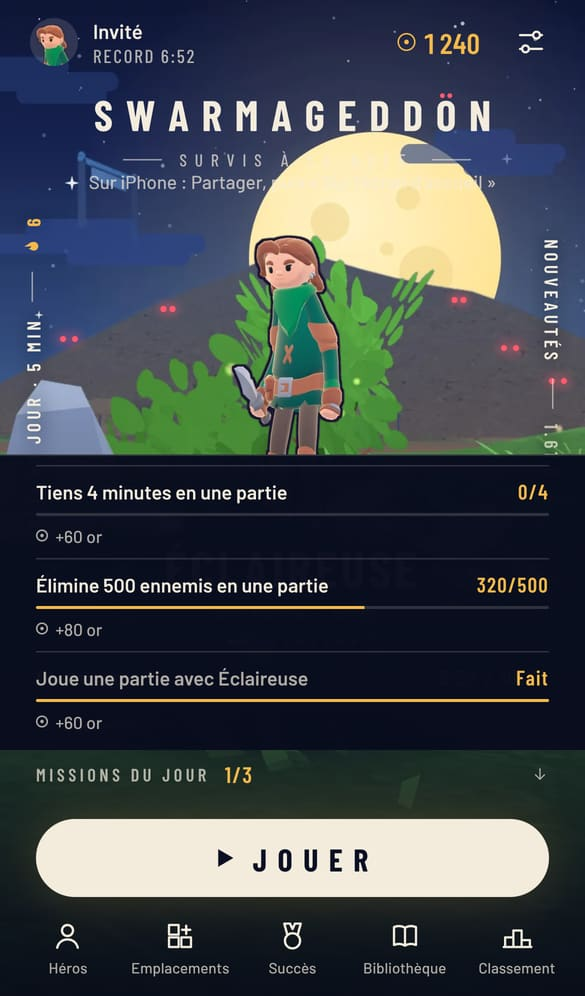
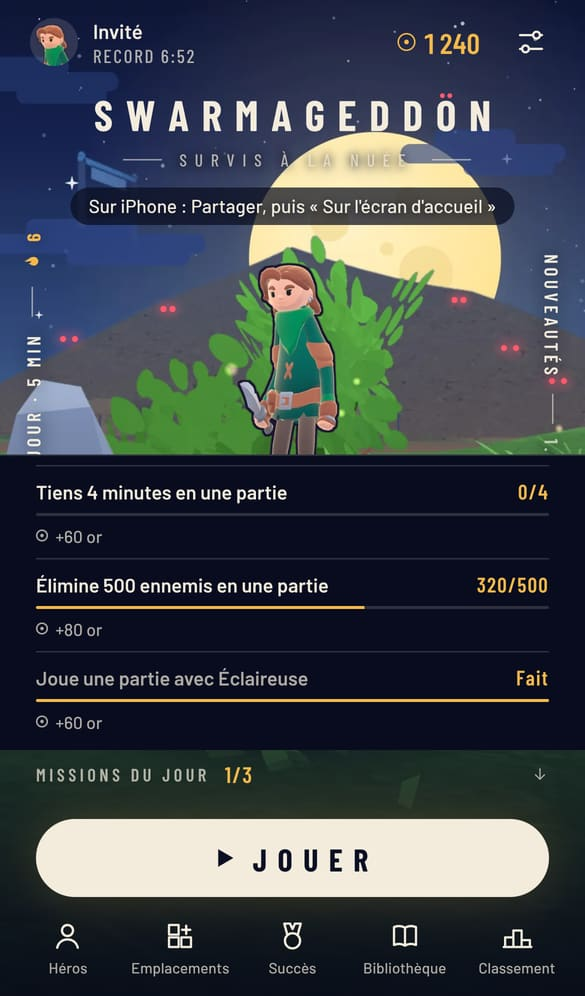
Accueil mobile : aide d'installation iPhone lisible à sa place, missions sur fond opaque (docs/specs/ui-nocturne.md)
- #iosHint : marge de 12 px sous l'accroche, voile de nuit arrondi et ombre de
  texte pour rester lisible sur la lune ; vérifié sans chevauchement (logo,
  accroche, rails, portrait, barre du haut) en 390×844 et 360×740.
- Accroche « Survis à la nuée » : ombre de texte, lisible quand la lune passe
  derrière sur les écrans bas.
- Panneau des missions ouvert sur téléphone : fond opaque, le nom du héros ne
  transparaît plus.
- e2e/shots.spec.ts : la sauvegarde de la capture « personnages » compte des
  parties (sans parties, les onglets attendent la première depuis Nocturne et
  le test restait bloqué sur Emplacements).
- Captures l3-accueil-mobile-apres et menu-mobile-apres refaites.

Claude-Session: https://claude.ai/code/session_019HFKrdLTH4im3Soc8Qo7e2

diff --git a/index.html b/index.html
@@ -2059,6 +2059,9 @@
         padding-left: 0.46em;
         text-transform: uppercase;
         color: var(--moon-70);
+        text-shadow:
+          0 0 6px rgba(6, 9, 24, 0.95),
+          0 1px 10px rgba(6, 9, 24, 0.85); /* lisible quand la lune passe derrière (écrans bas) */
       }
       .tagline::before,
       .tagline::after {
@@ -2076,6 +2079,16 @@
       .homelinks .note {
         align-self: center;
         text-align: center;
+      }
+      /* aide d'installation sur iPhone : sa propre place sous l'accroche, sur un voile de nuit pour rester lisible sur
+         la lune */
+      #iosHint {
+        margin-top: 12px;
+        padding: 4px 12px;
+        border-radius: 999px;
+        background: rgba(8, 12, 30, 0.72);
+        color: var(--moon);
+        text-shadow: 0 1px 6px rgba(6, 9, 24, 0.9);
       }
       /* scène du héros : le portrait au centre, défi du jour et nouveautés en rails verticaux sur les bords */
       .stage {
@@ -3210,7 +3223,7 @@
         bottom: 100%;
         z-index: 2;
         padding: 6px 24px 4px;
-        background: rgba(8, 12, 30, 0.98);
+        background: rgb(8, 12, 30); /* opaque : rien de la scène dessous ne se lit à travers */
         border-top: 1px solid var(--rule);
       }
       .missions summary {

diff --git a/e2e/shots.spec.ts b/e2e/shots.spec.ts
@@ -196,6 +196,7 @@ test('personnages : grille complète et traînée du Feu follet', async ({ page 
   await page.evaluate(() =>
     (window as any).__game.setMeta({
       version: 3,
+      runs: 12, // un joueur qui a tout débloqué a joué : sans parties, les onglets attendent la première (Nocturne)
       gold: 5000,
       achievements: ['survie3', 'survie10', 'kills500', 'boss1', 'win', 'intouchable'],
       bought: ['veilleuse', 'braconnier', 'colporteur'],
